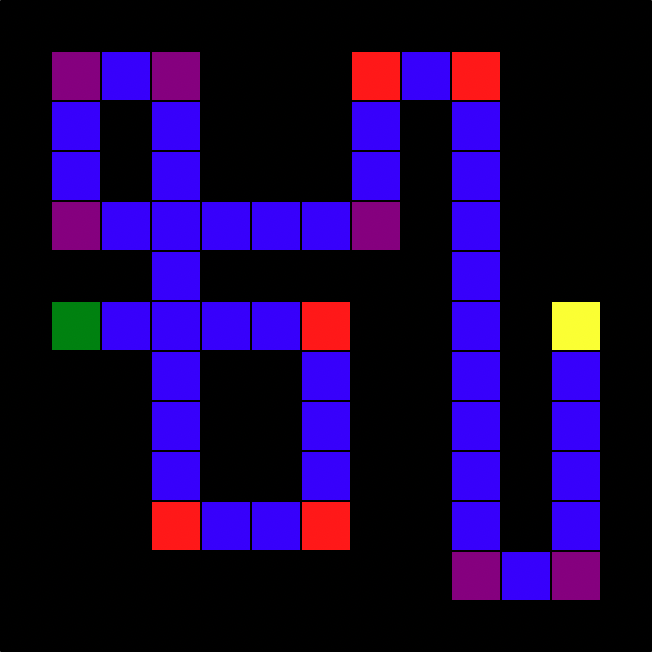
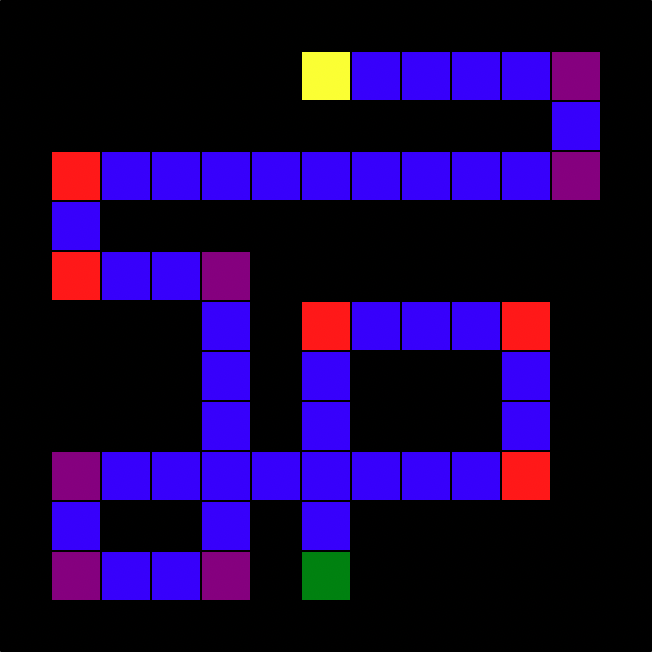
Rotate puzzle_05 so need to start pointing up

diff --git a/src/turbozzle/creator/levels.py b/src/turbozzle/creator/levels.py
@@ -104,17 +104,17 @@ LEVEL_04 = [
 
 LEVEL_05 = [
     ["x", "x", "x", "x", "x", "x", "x", "x", "x", "x", "x", "x", "x"],
-    ["x", "p", "b", "p", "x", "x", "x", "r", "b", "r", "x", "x", "x"],
-    ["x", "b", "x", "b", "x", "x", "x", "b", "x", "b", "x", "x", "x"],
-    ["x", "b", "x", "b", "x", "x", "x", "b", "x", "b", "x", "x", "x"],
-    ["x", "p", "b", "b", "b", "b", "b", "p", "x", "b", "x", "x", "x"],
-    ["x", "x", "x", "b", "x", "x", "x", "x", "x", "b", "x", "x", "x"],
-    ["x", "g", "b", "b", "b", "b", "r", "x", "x", "b", "x", "y", "x"],
-    ["x", "x", "x", "b", "x", "x", "b", "x", "x", "b", "x", "b", "x"],
-    ["x", "x", "x", "b", "x", "x", "b", "x", "x", "b", "x", "b", "x"],
-    ["x", "x", "x", "b", "x", "x", "b", "x", "x", "b", "x", "b", "x"],
-    ["x", "x", "x", "r", "b", "b", "r", "x", "x", "b", "x", "b", "x"],
-    ["x", "x", "x", "x", "x", "x", "x", "x", "x", "p", "b", "p", "x"],
+    ["x", "x", "x", "x", "x", "x", "y", "b", "b", "b", "b", "p", "x"],
+    ["x", "x", "x", "x", "x", "x", "x", "x", "x", "x", "x", "b", "x"],
+    ["x", "r", "b", "b", "b", "b", "b", "b", "b", "b", "b", "p", "x"],
+    ["x", "b", "x", "x", "x", "x", "x", "x", "x", "x", "x", "x", "x"],
+    ["x", "r", "b", "b", "p", "x", "x", "x", "x", "x", "x", "x", "x"],
+    ["x", "x", "x", "x", "b", "x", "r", "b", "b", "b", "r", "x", "x"],
+    ["x", "x", "x", "x", "b", "x", "b", "x", "x", "x", "b", "x", "x"],
+    ["x", "x", "x", "x", "b", "x", "b", "x", "x", "x", "b", "x", "x"],
+    ["x", "p", "b", "b", "b", "b", "b", "b", "b", "b", "r", "x", "x"],
+    ["x", "b", "x", "x", "b", "x", "b", "x", "x", "x", "x", "x", "x"],
+    ["x", "p", "b", "b", "p", "x", "g", "x", "x", "x", "x", "x", "x"],
     ["x", "x", "x", "x", "x", "x", "x", "x", "x", "x", "x", "x", "x"],
 ]
 

diff --git a/src/turbozzle/puzzles/puzzle_05.py b/src/turbozzle/puzzles/puzzle_05.py
@@ -3,6 +3,7 @@ from turbozzle.utils.movement_wrapper import forward, init_puzzle, left, on_purp
 
 
 def solve_puzzle_05() -> None:
+    left(90)
     while True:
         forward()
         if on_red():
@@ -11,7 +12,7 @@ def solve_puzzle_05() -> None:
             left(90)
 
 
-init_puzzle("levels/puzzle_05.png", x=-250, y=0, speed=2)
+init_puzzle("levels/puzzle_05.png", x=0, y=-250, speed=0)
 solve_puzzle_05()
 
 wait_until_exit()
